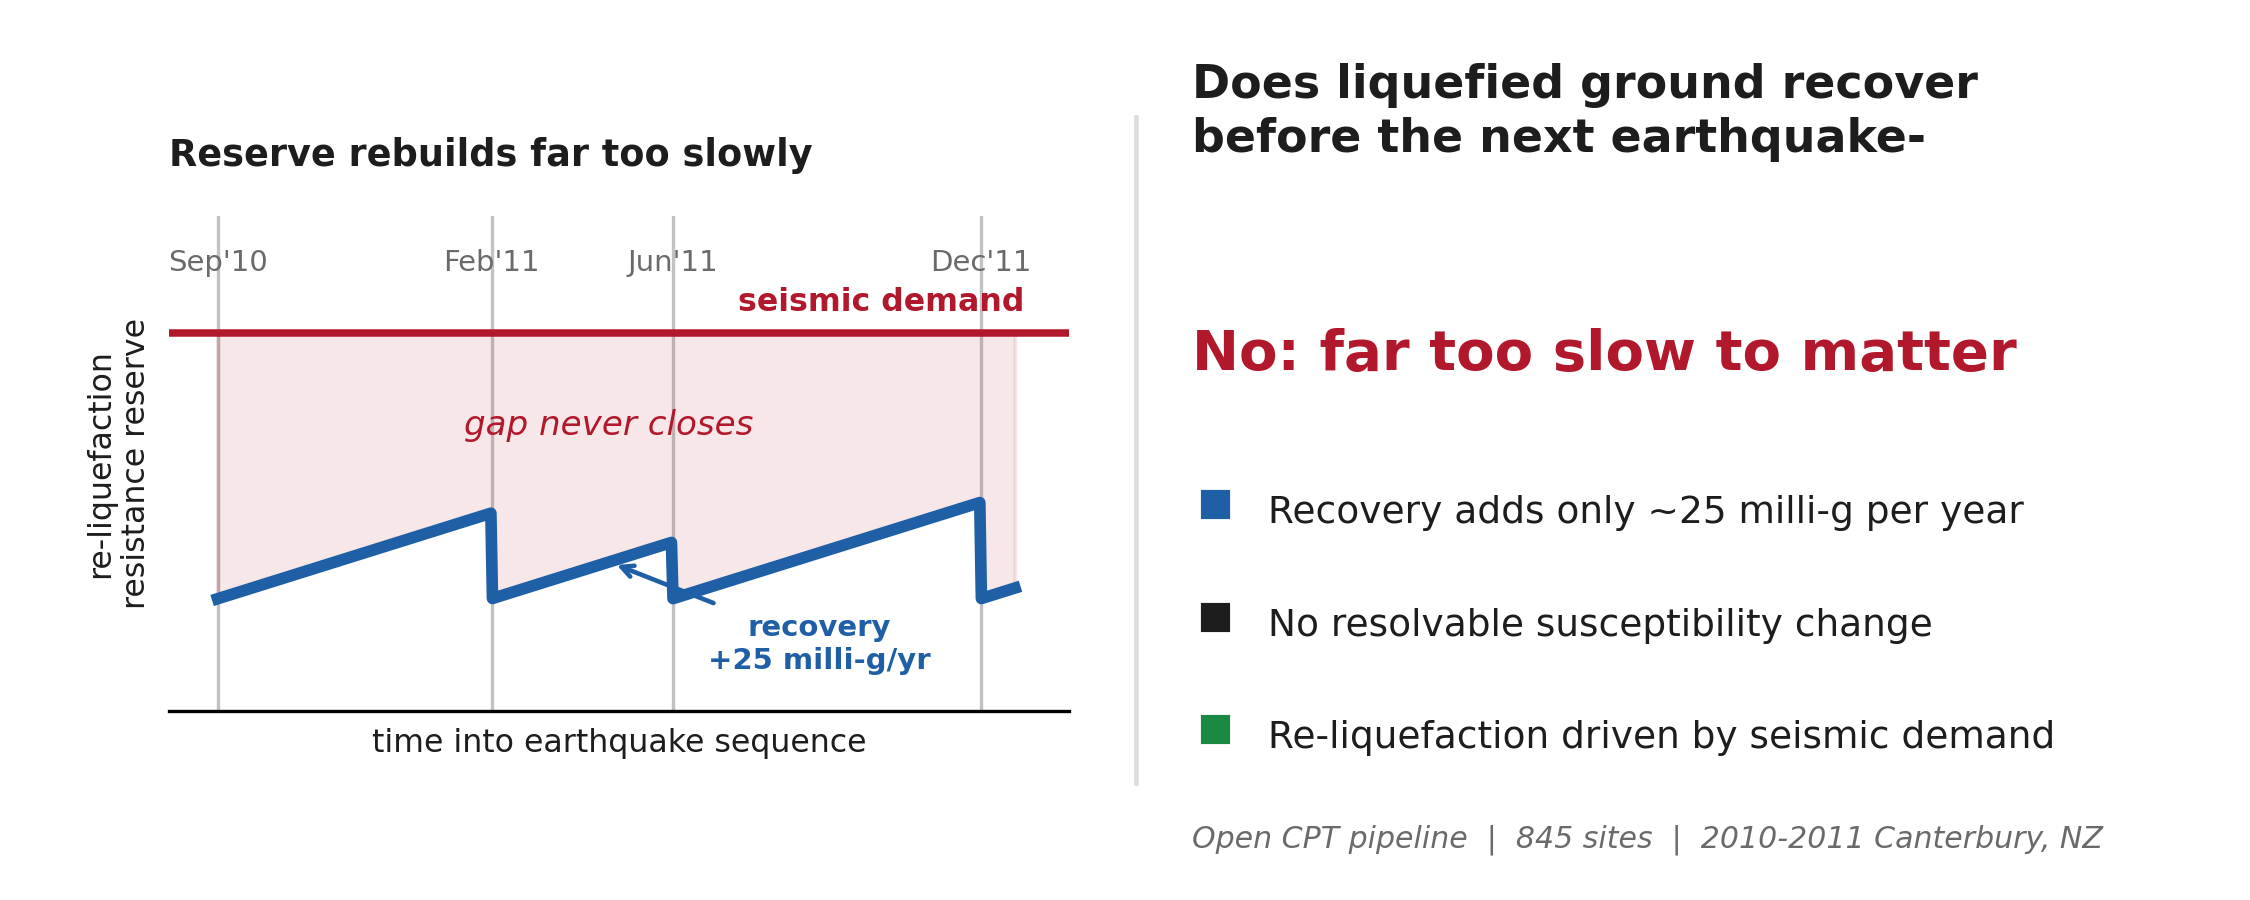
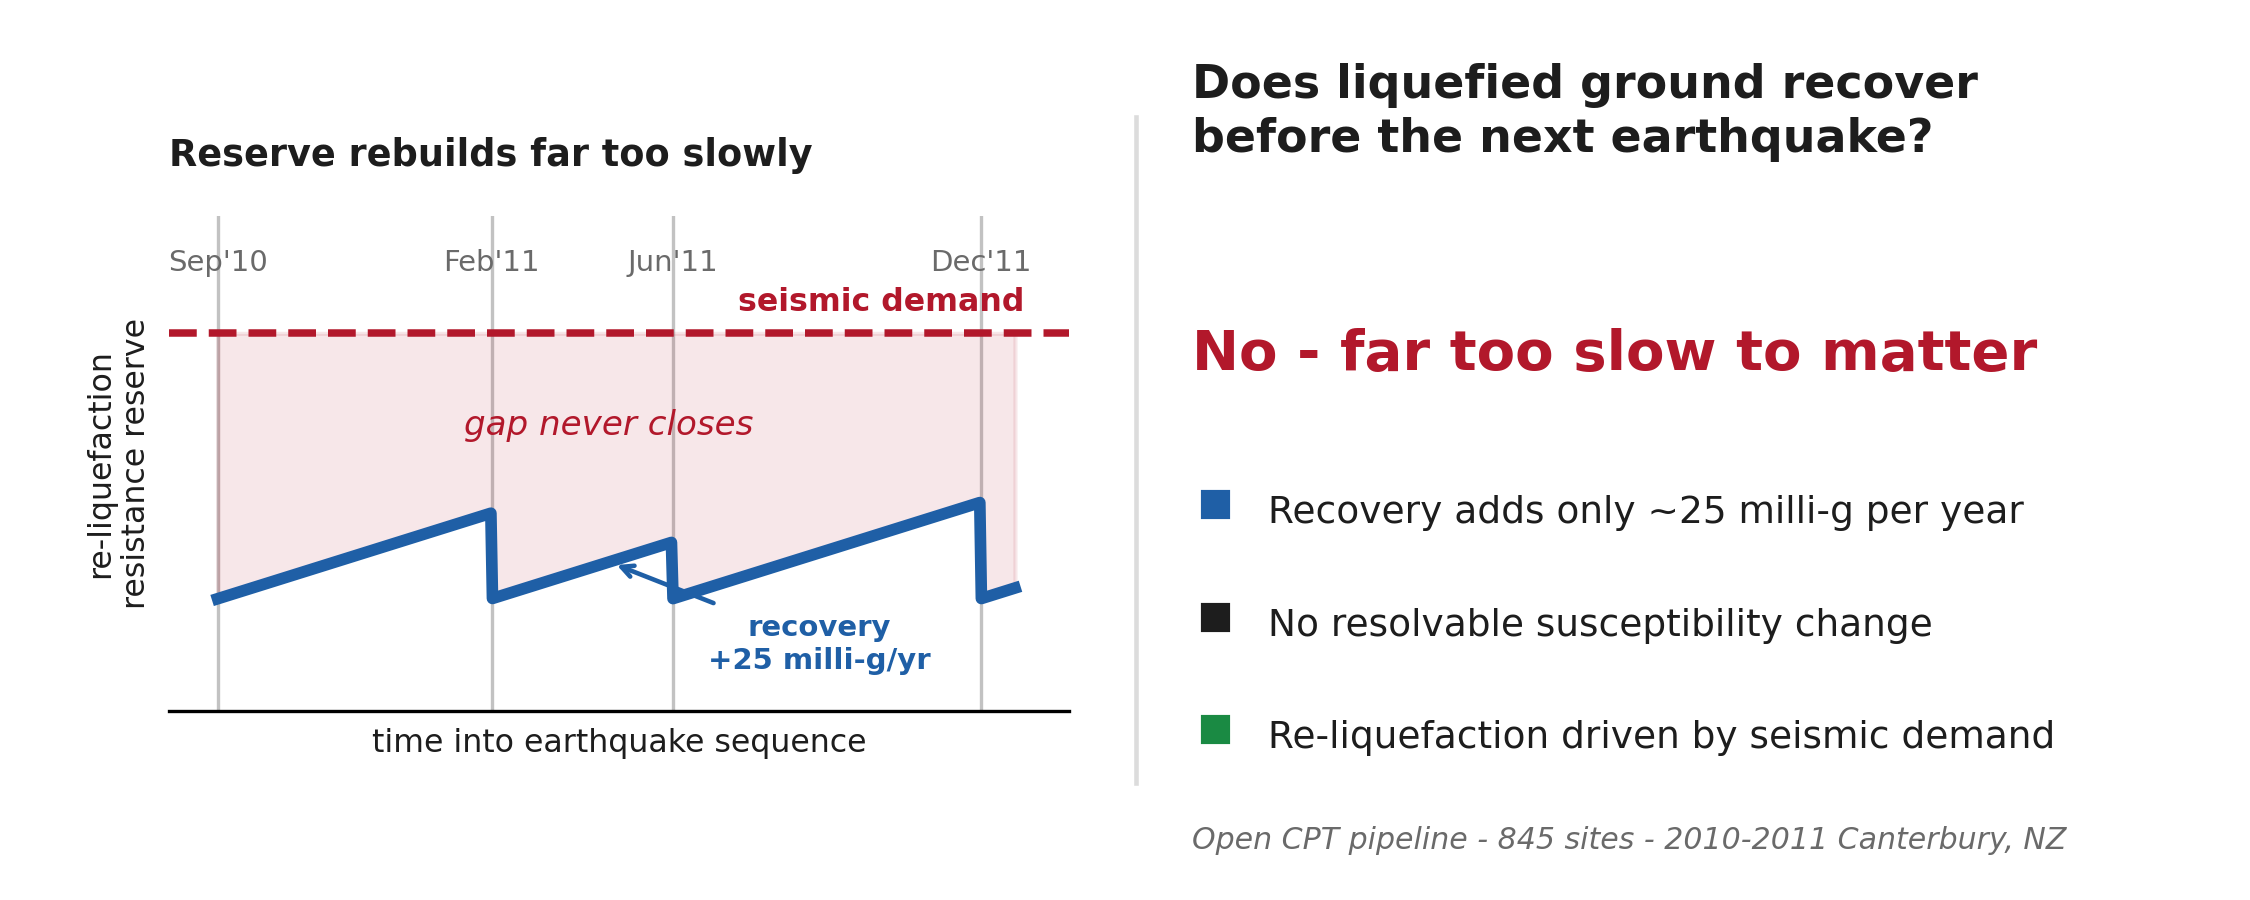
Align public package with submitted figures

diff --git a/analysis/fig1_mechanism.py b/analysis/fig1_mechanism.py
@@ -1,0 +1,116 @@
+"""Figure 1 - physically concrete mechanism figure for the EG paper.
+Narrative left->right: liquefiable ground + CPT  --(earthquake)-->  two processes (H1 recovery / H2 susceptibility)
+--> demand-referenced recovery screen (rebuildable vs required reserve; the gap never closes)."""
+import numpy as np
+import matplotlib as mpl; mpl.use("Agg")
+import matplotlib.pyplot as plt
+from matplotlib.patches import Rectangle, FancyBboxPatch
+from pathlib import Path
+R39 = Path(__file__).resolve().parents[1]
+OUT = R39 / "figures"; OUT.mkdir(parents=True, exist_ok=True)
+plt.rcParams.update({
+    "font.family": "DejaVu Sans",
+    "axes.linewidth": 0.8,
+    "pdf.fonttype": 42,
+    "ps.fonttype": 42,
+})
+C = dict(crust="#d8c7a2", sand="#eab94e", base="#a9a195", water="#2f7fb8",
+         qc="#2b2b2b", dem="#b2182b", rec="#1f5fa6", ok="#1a8a43", ink="#1d1d1d", gray="#6b6b6b")
+
+fig = plt.figure(figsize=(7.3, 4.4), dpi=300)
+fig.patch.set_facecolor("white")
+ROW_Y, ROW_H = 0.360, 0.440            # main row band
+
+# ============================================================ LEFT: soil stratigraphy column
+axs = fig.add_axes([0.060, ROW_Y, 0.080, ROW_H])
+for z0, z1, col, hatch in [(0.0, 1.2, C["crust"], ""), (1.2, 3.0, "#dcc98f", ""),
+                           (3.0, 6.0, C["sand"], "////"), (6.0, 8.0, C["base"], "")]:
+    axs.add_patch(Rectangle((0, z0), 1, z1 - z0, facecolor=col, edgecolor="#7a7a7a", lw=0.6, hatch=hatch))
+axs.add_patch(Rectangle((0, 3.0), 1, 3.0, fill=False, edgecolor=C["dem"], lw=1.6))
+axs.plot([0, 1], [1.2, 1.2], color=C["water"], lw=1.3)
+axs.plot(0.5, 1.2, marker="v", color=C["water"], ms=7, mec="white", mew=0.5)
+axs.set_xlim(0, 1); axs.set_ylim(8, 0); axs.set_xticks([])
+axs.set_ylabel("depth (m)", fontsize=7.5); axs.tick_params(labelsize=7)
+axs.set_title("ground", fontsize=8.2, weight="bold", color=C["ink"], pad=3)
+
+# ============================================================ qc trace (shares depth)
+axq = fig.add_axes([0.160, ROW_Y, 0.110, ROW_H])
+z = np.linspace(0, 8, 400)
+qc = (4.2 * np.exp(-((z - 0.6) / 0.8) ** 2) + 6.0 * np.exp(-((z - 2.1) / 0.9) ** 2)
+      + 1.8 * (np.abs(z - 4.5) < 1.5) + 0.9 + 12.0 / (1 + np.exp(-(z - 6.6) * 2.2)))
+qc = np.clip(qc + np.sin(z * 7.5) * 0.22, 0.4, None)
+axq.axhspan(3.0, 6.0, color=C["sand"], alpha=0.25)
+axq.plot(qc, z, color=C["qc"], lw=1.3)
+axq.set_xlim(0, 16); axq.set_ylim(8, 0); axq.set_yticks([])
+axq.set_xlabel(r"$q_c$ (MPa)", fontsize=7.5); axq.tick_params(labelsize=7)
+axq.set_title("CPT", fontsize=8.2, weight="bold", color=C["ink"], pad=3)
+axq.annotate("liquefiable\ncritical layer", xy=(2.2, 4.5), xytext=(7.0, 4.6),
+             fontsize=6.5, color=C["dem"], va="center", weight="bold",
+             arrowprops=dict(arrowstyle="->", color=C["dem"], lw=0.9))
+
+# ============================================================ earthquake load on top of column
+axE = fig.add_axes([0.055, 0.825, 0.230, 0.135]); axE.axis("off"); axE.set_xlim(0, 1); axE.set_ylim(0, 1)
+axE.plot([0.30, 0.40, 0.34, 0.46], [0.05, 0.55, 0.55, 1.0], color=C["dem"], lw=2.0, solid_capstyle="round")
+for x0 in (0.16, 0.30, 0.44, 0.58):
+    axE.annotate("", xy=(x0, 0.02), xytext=(x0, 0.42), arrowprops=dict(arrowstyle="->", color=C["dem"], lw=1.0))
+axE.text(0.66, 0.45, "seismic demand\n(PGA)", fontsize=7.0, color=C["dem"], weight="bold", va="center")
+
+# ============================================================ MIDDLE: the two processes H1 / H2
+axM = fig.add_axes([0.300, ROW_Y, 0.165, ROW_H]); axM.axis("off"); axM.set_xlim(0, 1); axM.set_ylim(0, 1)
+axM.annotate("", xy=(0.97, 0.60), xytext=(0.02, 0.60), arrowprops=dict(arrowstyle="-|>", color=C["ink"], lw=2.0))
+axM.text(0.50, 0.68, "after liquefaction", fontsize=7.0, color=C["ink"], ha="center", style="italic")
+axM.annotate("", xy=(0.64, 0.92), xytext=(0.44, 0.64), arrowprops=dict(arrowstyle="->", color=C["rec"], lw=1.6))
+axM.text(0.50, 0.99, "H1  slow recovery\n(ageing, reconsolidation)", fontsize=6.4, color=C["rec"],
+         ha="center", va="top", weight="bold")
+axM.annotate("", xy=(0.64, 0.28), xytext=(0.44, 0.56), arrowprops=dict(arrowstyle="->", color=C["gray"], lw=1.6))
+axM.text(0.50, 0.20, "H2  susceptibility\nchange?  (paradox,\nnot resolvable)", fontsize=6.4,
+         color=C["gray"], ha="center", va="top")
+
+# ============================================================ RIGHT: demand-referenced recovery screen
+axr = fig.add_axes([0.520, ROW_Y, 0.430, ROW_H])
+months = np.linspace(0, 24, 200)
+req, valid = 185.0, 160.0
+rebuild = 85 + (95 - 85) * (months / 24)
+axr.axhspan(valid, 205, color="#bdbdbd", alpha=0.32, hatch="xx", ec="#9a9a9a", lw=0)
+axr.text(20.5, 198, "beyond B$-$I validity", fontsize=6.3, color="#5a5a5a", ha="center", va="center")
+axr.axhline(req, color=C["dem"], ls="--", lw=1.7)
+axr.text(0.5, 187, "required for FS = 1 at Feb-2011 demand", fontsize=6.7, color=C["dem"],
+         va="bottom", weight="bold")
+axr.fill_between(months, rebuild, req, color=C["dem"], alpha=0.08)
+axr.plot(months, rebuild, color=C["rec"], lw=2.6)
+axr.annotate("rebuildable reserve (ageing)\n$\\approx$ +25 milli-$g$/yr", xy=(13, rebuild[108]),
+             xytext=(6.4, 118), fontsize=6.6, color=C["rec"], weight="bold", ha="center",
+             arrowprops=dict(arrowstyle="->", color=C["rec"], lw=0.9))
+axr.text(18.5, 150, "deficit never\ncloses within\na sequence", fontsize=7.6, color=C["dem"],
+         ha="center", va="center", weight="bold")
+axr.axvline(4, color=C["ink"], ls=":", lw=1.1)
+axr.text(4.4, 69, "next strong event", fontsize=6.4, color=C["ink"], va="center")
+axr.set_xlim(0, 24); axr.set_ylim(60, 205)
+axr.set_xlabel("time since event (months)", fontsize=7.6)
+axr.set_ylabel(r"clean-sand resistance  $q_{c1Ncs}$", fontsize=7.6); axr.tick_params(labelsize=7)
+for s in ["top", "right"]:
+    axr.spines[s].set_visible(False)
+axr.set_title("demand-referenced recovery screen", fontsize=8.6, weight="bold", color=C["ink"], pad=5)
+
+# ============================================================ BOTTOM: Canterbury timeline
+axt = fig.add_axes([0.060, 0.165, 0.890, 0.085]); axt.axis("off"); axt.set_xlim(0, 1); axt.set_ylim(0, 1)
+axt.text(0.50, 0.97, "inter-event windows: weeks to months  (too short for recovery)",
+         fontsize=6.5, ha="center", va="top", color=C["gray"], style="italic")
+axt.annotate("", xy=(0.99, 0.60), xytext=(0.0, 0.60), arrowprops=dict(arrowstyle="-|>", color=C["gray"], lw=1.3))
+for x, nm in [(0.04, "Darfield\nSep 2010"), (0.36, "Christchurch\nFeb 2011"),
+              (0.55, "Jun 2011"), (0.92, "Dec 2011")]:
+    axt.plot(x, 0.60, marker="o", ms=6.5, color=C["dem"], mec="white", mew=0.6, zorder=3)
+    axt.text(x, 0.40, nm, fontsize=6.2, ha="center", va="top", color=C["gray"])
+
+# ============================================================ FINDING banner
+fig.add_artist(FancyBboxPatch((0.060, 0.028), 0.890, 0.088, transform=fig.transFigure,
+               boxstyle="round,pad=0.003", facecolor="#eaf6ea", edgecolor=C["ok"], lw=1.0))
+fig.text(0.505, 0.073, "The deficit never closes within a sequence, and no susceptibility change is resolvable",
+         fontsize=7.6, ha="center", va="center", color=C["ok"], weight="bold")
+fig.text(0.505, 0.045, "$\\rightarrow$  re-liquefaction is governed by seismic demand",
+         fontsize=7.6, ha="center", va="center", color=C["ok"], weight="bold")
+
+fig.savefig(OUT / "Fig1_mechanism.png", dpi=600, facecolor="white")
+fig.savefig(OUT / "Fig1_mechanism.pdf", facecolor="white")
+from PIL import Image
+print("size px:", Image.open(OUT / "Fig1_mechanism.png").size)

diff --git a/analysis/fig2_evidence.py b/analysis/fig2_evidence.py
@@ -1,0 +1,77 @@
+"""Figure 2 - the empirical evidence (3 panels): recovery-screen quantification,
+field-scale odds-ratio test, and the identifiability limit."""
+import numpy as np
+import matplotlib as mpl; mpl.use("Agg")
+import matplotlib.pyplot as plt
+from pathlib import Path
+R39 = Path(__file__).resolve().parents[1]
+OUT = R39 / "figures"; OUT.mkdir(parents=True, exist_ok=True)
+plt.rcParams.update({
+    "font.family": "DejaVu Sans",
+    "axes.linewidth": 0.8,
+    "axes.spines.top": False,
+    "axes.spines.right": False,
+    "axes.titlesize": 8.5,
+    "axes.titleweight": "bold",
+    "pdf.fonttype": 42,
+    "ps.fonttype": 42,
+})
+C = dict(dem="#b2182b", rec="#1f5fa6", ok="#1a8a43", gray="#555555", ink="#1d1d1d")
+
+fig = plt.figure(figsize=(7.3, 2.7), dpi=300)
+
+# ----------------------------------------------- (a) recovery screen (PGA space)
+ax = fig.add_axes([0.060, 0.21, 0.205, 0.63])
+t = np.linspace(0, 24, 100)
+tol = 0.110 + (0.135 - 0.110) * (t / 12)
+ax.axhspan(0.40, 0.80, color=C["dem"], alpha=0.10)
+ax.axhline(0.6, color=C["dem"], ls="--", lw=1.4)
+ax.text(12, 0.66, "Feb-2011 demand", color=C["dem"], fontsize=6.4, ha="center", weight="bold")
+ax.plot(t, tol, color=C["rec"], lw=2.4)
+ax.annotate("tolerable PGA\n" r"$\approx$ +25 milli-$g$/yr", xy=(17, tol[70]), xytext=(12, 0.30),
+            fontsize=6.4, color=C["rec"], ha="center", weight="bold",
+            arrowprops=dict(arrowstyle="->", color=C["rec"], lw=0.9))
+ax.axhline(0.057, color=C["gray"], ls=":", lw=1)
+ax.text(12, 0.082, "re-trigger threshold", color=C["gray"], fontsize=5.8, ha="center")
+ax.set_xlim(0, 24); ax.set_ylim(0, 0.82)
+ax.set_xlabel("months since event", fontsize=7.2)
+ax.set_ylabel("PGA (g)", fontsize=7.2); ax.tick_params(labelsize=6.6)
+ax.set_title("a  Recovery screen", loc="left")
+
+# ----------------------------------------------- (b) field-scale odds-ratio forest plot
+ax = fig.add_axes([0.420, 0.21, 0.300, 0.63])
+rows = [("PGA (demand)", 4.6, 3.0, 7.0, C["dem"], "845"),
+        ("LSN (AUC 0.61)", 1.06, 1.03, 1.10, C["rec"], "845"),
+        ("prior-liq: pre, LSN", 1.18, 0.64, 2.18, C["gray"], "300"),
+        ("prior-liq: all, LSN", 0.50, 0.30, 0.82, C["gray"], "845"),
+        ("prior-liq: all, $q_c$", 1.24, 0.65, 2.38, C["gray"], "845"),
+        ("prior-liq: pre, $q_c$", 4.57, 1.97, 10.62, C["gray"], "300")]
+ax.axvspan(0.7, 1.45, color="0.87", alpha=0.7, zorder=0)
+labs = []
+for i, (lab, o, lo, hi, c, n) in enumerate(rows):
+    y = len(rows) - i; labs.append((y, lab))
+    ax.plot([lo, hi], [y, y], color=c, lw=1.5, zorder=3); ax.plot(o, y, "o", color=c, ms=4.6, zorder=4)
+    ax.text(15.0, y, f"n={n}", fontsize=5.4, color=C["gray"], va="center", ha="right")
+ax.axvline(1, color="0.4", lw=0.8, ls="--")
+ax.set_xscale("log"); ax.set_xlim(0.25, 16); ax.set_ylim(0.4, len(rows) + 0.6)
+ax.set_yticks([y for y, _ in labs]); ax.set_yticklabels([l for _, l in labs], fontsize=5.9)
+ax.set_xlabel("odds ratio for Feb-2011 re-liquefaction", fontsize=7.2); ax.tick_params(axis="x", labelsize=6.6)
+ax.set_title("b  Demand drives; prior-liq null", loc="left")
+
+# ----------------------------------------------- (c) identifiability
+ax = fig.add_axes([0.790, 0.21, 0.198, 0.63])
+ax.scatter([0.3, 0.33, 0.43, 0.43, 0.46, 0.46], [1] * 6, s=34, color=C["ok"], zorder=5,
+           edgecolor="white", linewidth=0.5)
+strad = [3.4, 3.6, 3.9, 4.8, 5.2, 6.4, 6.6, 7.2, 8.3, 23, 24.9]
+ax.scatter(strad, [0] * len(strad), s=28, color=C["dem"], marker="x")
+ax.set_yticks([0, 1]); ax.set_yticklabels(["straddle\nre-liq", "event-\nfree (n=6)"], fontsize=6.4)
+ax.set_xlabel("repeat-segment months", fontsize=7.2); ax.set_xlim(-1, 27); ax.set_ylim(-0.7, 1.85)
+ax.tick_params(axis="x", labelsize=6.6)
+ax.set_title("c  No clean rate", loc="left")
+ax.text(13, 1.52, "6 event-free spans\nare all 9$-$14 days", fontsize=6.0,
+        ha="center", va="center", color=C["gray"], style="italic")
+
+fig.savefig(OUT / "Fig2_evidence.png", dpi=600, facecolor="white")
+fig.savefig(OUT / "Fig2_evidence.pdf", facecolor="white")
+from PIL import Image
+print("size px:", Image.open(OUT / "Fig2_evidence.png").size)

diff --git a/analysis/graphical_abstract.py b/analysis/graphical_abstract.py
@@ -6,13 +6,17 @@ import matplotlib.pyplot as plt
 from pathlib import Path
 R39 = Path(__file__).resolve().parents[1]
 OUT = R39 / "figures"; OUT.mkdir(parents=True, exist_ok=True)
-plt.rcParams.update({"font.family": "DejaVu Sans"})
+plt.rcParams.update({
+    "font.family": "DejaVu Sans",
+    "pdf.fonttype": 42,
+    "ps.fonttype": 42,
+})
 C = {"dem": "#b2182b", "sus": "#1f5fa6", "ok": "#1a8a43", "ink": "#1d1d1d", "gray": "#6a6a6a"}
 
 fig = plt.figure(figsize=(7.5, 3.0), dpi=300)   # 2250 x 900 px = 2.5:1
 fig.patch.set_facecolor("white")
 
-# -- left: mechanism chart ------------------------
+# ---- left: mechanism chart ------------------------------------------------
 ax = fig.add_axes([0.075, 0.21, 0.40, 0.55])
 evx = [0, 5.6, 9.3, 15.6]; evnm = ["Sep'10", "Feb'11", "Jun'11", "Dec'11"]
 for x in evx:
@@ -20,7 +24,7 @@ for x in evx:
 for x, nm in zip(evx, evnm):
     ax.text(x, 1.03, nm, fontsize=7.0, ha="center", va="bottom", color=C["gray"])
 demand = 0.92
-ax.axhline(demand, color=C["dem"], ls="-", lw=1.8, zorder=3)
+ax.axhline(demand, color=C["dem"], ls="--", lw=1.8, zorder=3)
 ax.text(16.5, demand + 0.03, "seismic demand", color=C["dem"], fontsize=7.6, ha="right",
         va="bottom", weight="bold")
 t = np.linspace(0, 16.3, 500); floor, rate = 0.40, 0.030
@@ -39,16 +43,16 @@ ax.set_ylabel("re-liquefaction\nresistance reserve", fontsize=7.6, color=C["ink"
 ax.set_title("Reserve rebuilds far too slowly",
              fontsize=8.8, weight="bold", color=C["ink"], loc="left", pad=12)
 
-# -- divider -------------------------------
+# ---- divider --------------------------------------------------------------
 fig.add_artist(plt.Line2D([0.505, 0.505], [0.13, 0.87], color="#dcdcdc", lw=1.1,
                           transform=fig.transFigure))
 
-# -- right: takeaways ---------------------------
+# ---- right: takeaways -----------------------------------------------------
 ax2 = fig.add_axes([0.53, 0.0, 0.45, 1.0]); ax2.axis("off")
 ax2.set_xlim(0, 1); ax2.set_ylim(0, 1)
-ax2.text(0.0, 0.93, "Does liquefied ground recover\nbefore the next earthquake-",
+ax2.text(0.0, 0.93, "Does liquefied ground recover\nbefore the next earthquake?",
          fontsize=11.0, weight="bold", color=C["ink"], va="top", linespacing=1.25)
-ax2.text(0.0, 0.635, "No: far too slow to matter", fontsize=13.5, weight="bold",
+ax2.text(0.0, 0.635, "No - far too slow to matter", fontsize=13.5, weight="bold",
          color=C["dem"], va="top")
 bullets = [("Recovery adds only ~25 milli-g per year", C["sus"]),
            ("No resolvable susceptibility change", C["ink"]),
@@ -58,7 +62,7 @@ for txt, col in bullets:
     ax2.plot(0.022, y - 0.01, "s", color=col, ms=6)
     ax2.text(0.075, y, txt, fontsize=9.0, color=C["ink"], va="top")
     y -= 0.125
-ax2.text(0.0, 0.05, "Open CPT pipeline  |  845 sites  |  2010-2011 Canterbury, NZ",
+ax2.text(0.0, 0.05, "Open CPT pipeline - 845 sites - 2010-2011 Canterbury, NZ",
          fontsize=7.2, color=C["gray"], va="bottom", style="italic")
 
 fig.savefig(OUT / "GraphicalAbstract.png", dpi=300, facecolor="white")

diff --git a/REPRODUCIBLE_RUNBOOK.md b/REPRODUCIBLE_RUNBOOK.md
@@ -38,7 +38,8 @@ The final open-data field test is represented by:
 python analysis/mod07_field_scale_density_paradox.py
 python analysis/mod08_LSN_controlled_test.py
 python analysis/mod09_buffered_validated_test.py
-python analysis/fig_converged.py
+python analysis/fig1_mechanism.py
+python analysis/fig2_evidence.py
 python analysis/graphical_abstract.py
 ```
 
@@ -50,8 +51,10 @@ Earlier diagnostic modules (`mod01` to `mod06` and `eda*`) document the developm
 - `outputs/mod08_site_table.csv`
 - `outputs/mod09_site_table.csv`
 - `outputs/mod09_SUMMARY.md`
-- `figures/Fig1_converged.pdf`
-- `figures/Fig1_converged.png`
+- `figures/Fig1_mechanism.pdf`
+- `figures/Fig1_mechanism.png`
+- `figures/Fig2_evidence.pdf`
+- `figures/Fig2_evidence.png`
 - `figures/GraphicalAbstract.pdf`
 - `figures/GraphicalAbstract.png`
 

diff --git a/README.md b/README.md
@@ -33,11 +33,12 @@ Mapped liquefaction polygons and USGS ShakeMap products are public sources but a
 python -m venv .venv
 source .venv/bin/activate  # Windows: .venv\Scripts\activate
 pip install -r requirements.txt
-python analysis/fig_converged.py
+python analysis/fig1_mechanism.py
+python analysis/fig2_evidence.py
 python analysis/graphical_abstract.py
 ```
 
-The figure scripts above regenerate the included figure exports from fixed values and derived outputs. Full analytical reruns require the external data listed in `DATASETS_AND_LINKS.csv`.
+The figure scripts above regenerate the included submitted figure exports from fixed values and derived outputs. Full analytical reruns require the external data listed in `DATASETS_AND_LINKS.csv`.
 
 ## Citation
 